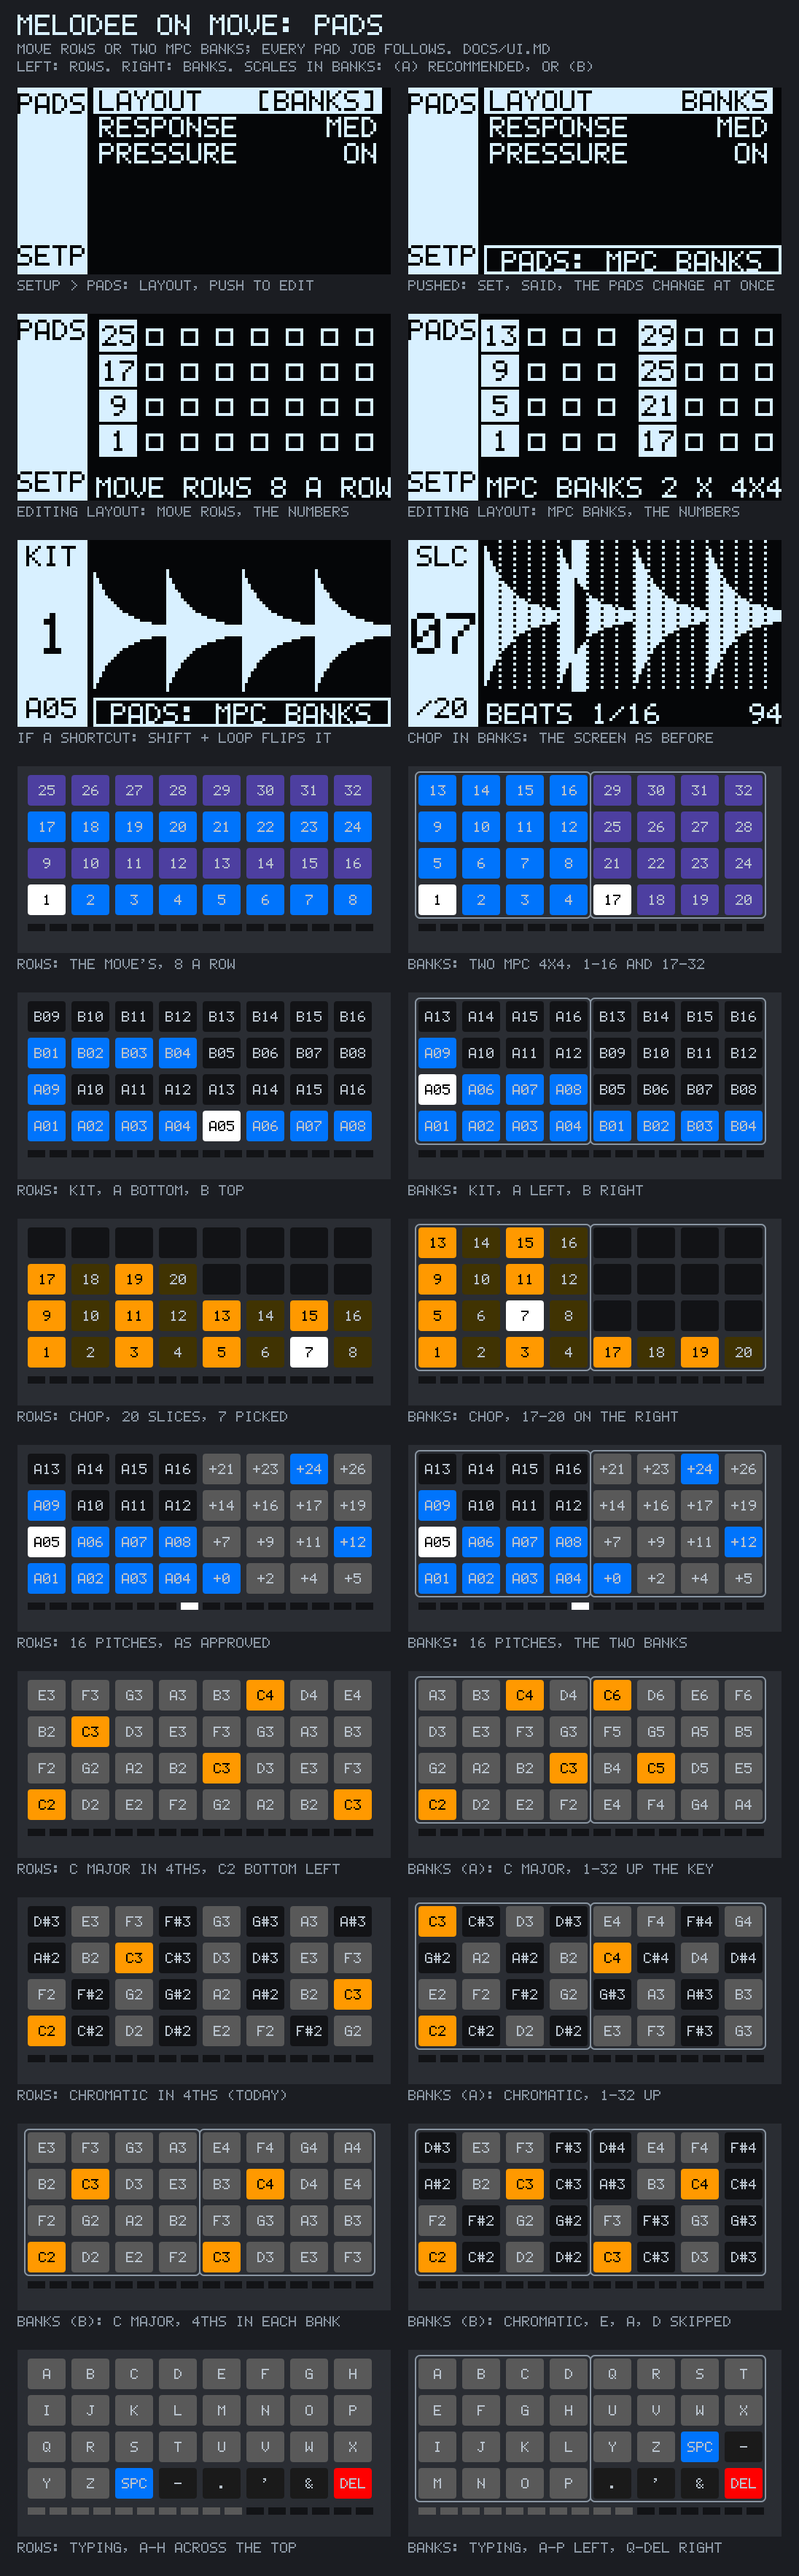
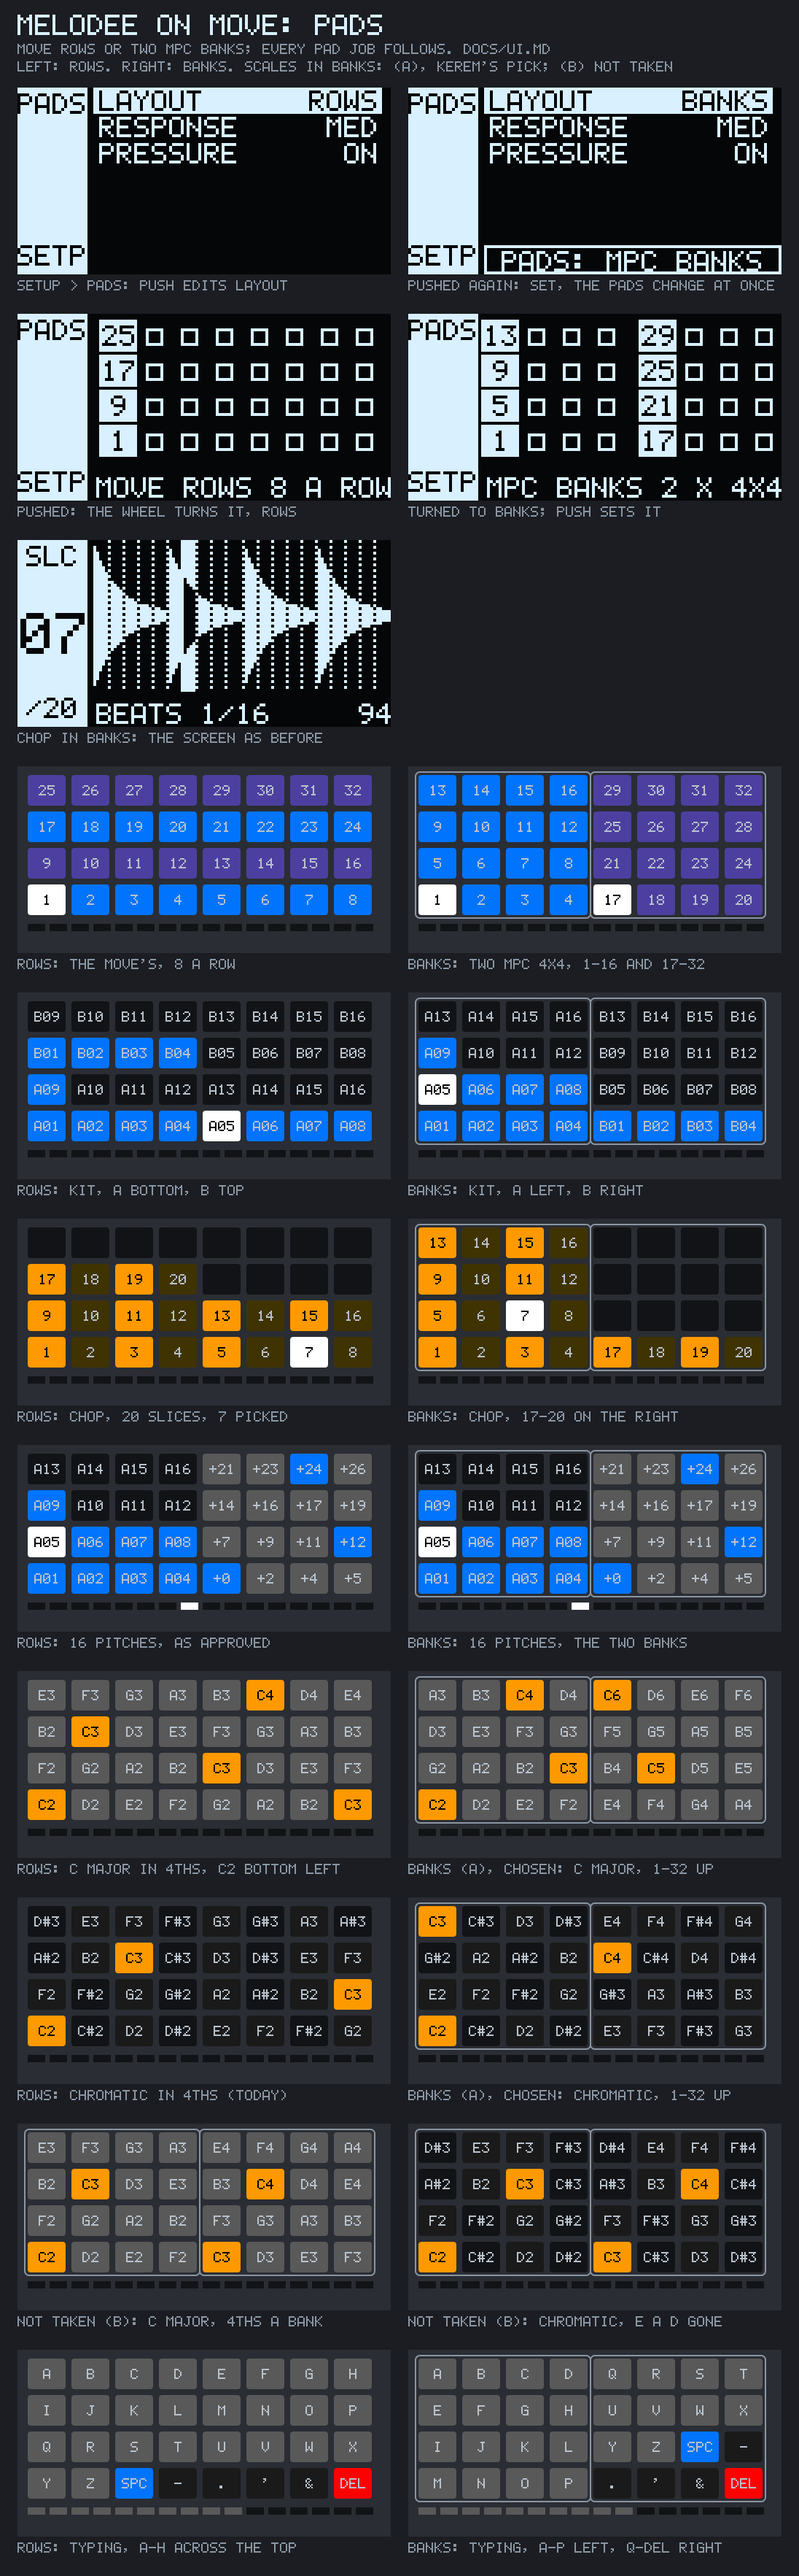
docs(move): the pad layouts and Kerem's decisions

diff --git a/docs/UI.md b/docs/UI.md
@@ -188,7 +188,8 @@ Chop), Kerem decides with that map. `docs/ui/tracks.png` is the sheet
 
 ## Pads
 
-Two layouts for the 32 pads, the user's choice (Kerem, 2026-11-20):
+Two layouts for the 32 pads, the user's choice (Kerem, 2026-11-20; he
+approved `docs/ui/pads.png` and took the decisions below the same day):
 
 - **Rows**, the Move's own: eight a row, the bottom row 1-8, then 9-16
   above it, up to 25-32.
@@ -210,28 +211,44 @@ lit and labelled, Rows on the left and Banks on the right.
 | A kit's 32 pads | bank A the bottom two rows, B the top two | A the left bank, B the right |
 | Chop's slices | 1-8 the bottom row, on up | 1-16 the left bank, 17-32 the right |
 | 16 Pitches (Shift + Step 8) | the left 4x4 one bank of the kit as the MPC lays it, the right 4x4 the pitches (as approved in controls.png) | the same: exactly the two banks |
-| Notes | rows of fourths, C2 bottom left (as today) | to choose: (a) or (b), below |
+| Notes | rows of fourths, C2 bottom left (as before) | 1-32 up the scale, reading (a) below |
 | Typing | the keys in reading order across the eight columns | through the left bank, then the right; Delete bottom right in both |
 
-Notes in Banks, two readings:
+Notes in Banks, two readings were drawn; **Kerem chose (a)**:
 
 - **(a)** the 32 pads run up the scale in pad order, 1-16 the left bank,
   17-32 going on in the right, as the MPC's pads run up a scale: In-Key, a
-  pad the next note of the key (C major: 32 notes, C2 to E6); Chromatic, a
+  pad the next note of the key (C major: 32 notes, C2 to F6); Chromatic, a
   semitone a pad (C2 to G4). Every pad a different note, none skipped.
-- **(b)** rows of fourths inside each 4-wide bank, the right bank an octave
+- (b), not taken: rows of fourths inside each 4-wide bank, the right bank an octave
   above the left: In-Key, up a row three notes of the key; Chromatic, up a
   row a fourth, so four columns skip a note each row (E, A, D), and the two
   banks share notes.
 
-With either, Up and Down move an octave, Shift + Plus and Minus a note of
-the key; the roots light in the track's colour wherever they fall. Chords
-and Prog put a pad's chord on its number, Drums plays 36 + the pad's number
-(as a kit), note repeat repeats the note the pad pressed. Recommended: (a).
+In Banks there are no rows, so Keys & Scale's 4ths or octaves is Rows' only.
+Up and Down move an octave, Shift + Plus and Minus a note of the key; the
+roots light in the track's colour wherever they fall. Chords and Prog put a
+pad's chord on its number, Drums plays 36 + the pad's number (as a kit),
+note repeat repeats the note the pad pressed. `pad_steps()` in
+`pad_layout.h` is the maths: how many steps of the scale a pad lies above
+the bottom-left one, `typing_key()` the keyboard.
 
-The setting: proposed global (Setup > PADS > LAYOUT, kept in
-`Move.settings`), the same for every track; turning it shows the numbering
-on the screen and on the pads, and the pads change at once.
+**The setting** is global: Setup > PADS > LAYOUT (`ROWS` or `BANKS`), kept in
+`Move.settings` (`pads 0` or `pads 1`), the same for every track and
+project, as it is the hands' and not the song's. No shortcut (Kerem): the
+Move has few free keys, and a stray press would move every pad. Push edits
+it: the wheel turns it while the screen shows where each run of pads starts
+and the pads light their numbering (pad 1 white, the banks or rows in two
+colours); push sets it, said on the screen (`PADS: MPC BANKS`), and every
+pad's job and light changes at once; Back leaves it as it was. Setup is
+move-projects' (Shift + Step 2); until it lands, Shift + Step 2 opens
+SETUP > PADS itself (`src/app/screens/setup_pads.cpp`, the row
+`src/app/pad_setting.*`).
+
+| Screen | Rail | Subject | Detail |
+| --- | --- | --- | --- |
+| Setup > PADS | `PADS` / / `SETP` | the list: `LAYOUT  BANKS` | |
+| Editing LAYOUT | `PADS` / / `SETP` | the 32 pads, each run's first number inverted | `MOVE ROWS 8 A ROW`, `MPC BANKS 2 X 4X4` |
 
 ## Screens in code
 
@@ -278,6 +295,8 @@ hold the code to it. In short:
 
 ## Lights
 
+- **Pads, either layout**: each lit where its number lies in the layout
+  chosen ("Pads", above); while LAYOUT is edited, the numbering itself.
 - **Pads**: a kit in its pads' colours, the last hit white; in Chop the
   slices in alternating colours, the selected one white, and in a manual take
   the pad that cuts next blinking red; on a module track every C in the

diff --git a/README.md b/README.md
@@ -37,6 +37,13 @@ Three parts so far:
   volume; Mute mutes the selected track, Mute + a track button that one,
   Shift + Mute + a track button solos it. Editing patterns comes next
   (docs/PARITY.md, sequencer); a project from the MPC plays its patterns.
+- **Pads**, in either of two layouts (Setup > PADS > LAYOUT, Shift + Step
+  2): the Move's rows of eight, 1-8 the bottom row, or two MPC 4x4 banks
+  side by side, 1-16 the left bank from its bottom left and 17-32 the right.
+  Every pad job follows the one chosen: the kit's pads, Chop's slices, the
+  notes (in the banks 1-32 up the semitones, as the MPC's pads run up a
+  scale), the typing keyboard and the lights. The choice is the Move's, kept
+  in `Move.settings` ([docs/UI.md](docs/UI.md), "Pads").
 - **Play** (a kit track): the last pad's sample. Knobs 1-8: tune, level, pan, start, end,
   attack, decay, cutoff (Shift: finer). Touch a knob to see it large.
 - **Load** (the wheel's push on the pad, the Move's Device View): WAV,
@@ -58,7 +65,8 @@ Three parts so far:
   (`/data/UserData/schwung/modules/sound_generators`, or `--modules DIR`).
   The jogwheel walks the Device View (the module, its preset, its effects);
   its push on the module lists them, and a push loads one. Pads are notes
-  in rows of fourths, C2 at the bottom left; Plus and Minus move an octave (a drum module
+  in rows of fourths, C2 at the bottom left (in MPC banks, 1-32 up the
+  semitones from C2); Plus and Minus move an octave (a drum module
   such as 9w9 wants notes from 36: one octave down); pressure is polyphonic
   aftertouch. Knobs 1-8 are the module's page (from its `ui_hierarchy`, or
   its parameters eight at a time), Shift + the jogwheel its pages; the
@@ -97,8 +105,8 @@ Three parts so far:
   (Melodee's PLUG section) holds the module by id, its preset and each
   parameter's value; on the MPC the track stays named and silent, and a
   module that has gone stays named until it is back. What is the Move's and
-  not the project's (the track played last, the metronome) is in
-  `/data/UserData/Melodee/Move.settings`. Each file is written whole or not
+  not the project's (the track played last, the metronome, the pad
+  layout) is in `/data/UserData/Melodee/Move.settings`. Each file is written whole or not
   at all (a temporary file, flushed, renamed). A project saved by the first
   scope (`Move.mldp` with `Move.mldp.chops` and `Move.mldp.synth` beside it)
   is folded into one file on the first start; the old side files stay as
@@ -217,8 +225,8 @@ tuned for the Move's Cortex-A72. Then: the unit tests, the sound self-test,
 the screen previews, runs against the simulated Move (the spike: pad,
 jogwheel to LATENCY, the meter timing clicks through a 300-frame cable,
 Shift + Back; Melodee: load, chop, To Pads, saved and restored; Play, the
-tempo and the metronome; the synth track with the stand-in module, saved
-and restored), and the packages:
+tempo and the metronome; the pad layout set to MPC banks and kept; the
+synth track with the stand-in module, saved and restored), and the packages:
 
 - `dist/melodee-move/`: the binary, the libraries Ableton's firmware lacks,
   a launcher and `run-stock.sh`;
@@ -294,6 +302,12 @@ card. The report stays in `.local/probe/`.
   audio with dither, the screen's pull handshake), the latency meter, and the
   device host against the simulated Move (lights out on channel 1, every
   screen chunk answered, a blank screen on the way out, the pad sounding).
+- The pad layouts (`build/pad-layout-tests`, `build/pads-app-tests`): the
+  map both ways in Rows and Banks, notes for both readings of a scale, the
+  typing keyboard; through the app, a kit's pads, Shift + pad, their lights,
+  Chop's slices and a synth's notes in both layouts, Setup > PADS and
+  `Move.settings`. In the simulated Move, Setup > PADS set to Banks by the
+  Move's own keys, a pad then B01, and the next start still in Banks.
 - `./build.sh`'s simulated run: the meter timed 8 of 8 clicks at exactly 428
   frames (300 of cable plus the block a render waits for the next exchange);
   a pad went from read to rendered in 37 µs; the cycle's own work took 33 µs

diff --git a/docs/MOVE_CONTROLS.md b/docs/MOVE_CONTROLS.md
@@ -77,6 +77,7 @@ after Schwung) differ for some buttons:
 | Kit pads | **32 kit pads** (two banks of 16) as today; **Plus and Minus move 16 pads** through the kit's 8 banks (as Control Live's Drum mode). **Shift + Step 8** turns the right 16 into **16 Pitches** of the last pad (Melodee's 16 Levels, Tune), the left 16 staying the kit; Plus and Minus are then the pitches' octave. |
 | Shift + Steps 4, 12, 13 | No Move job (no icon): **4 the Mixer** (16 tracks, their effects), **12 the Looper**, **13 Song**. |
 | Shift held | **Nothing on the screen**, as on the stock Move: the steps with a Shift job light, Melodee's 4, 12 and 13 too (Kerem dropped the on-screen Shift card from the mockups). |
+| Pads | **Two layouts, the user's choice**: **Rows**, the Move's eight a row (1-8 the bottom row, up to 25-32), or **Banks**, two MPC 4x4 banks side by side (1-16 the left bank from its bottom left, 17-32 the right). Every pad job follows it: kit pads and banks, Chop's slices, 16 Pitches, notes, typing, the lights. Notes in Banks run **up the scale in pad order** (reading (a): 1-16 the left bank, 17-32 on up the right). The setting is **global, in Setup > PADS > LAYOUT**, kept in `Move.settings`; **no shortcut**; typing follows the banks. 16 Pitches is the left 4x4 kit, right 4x4 pitches in both layouts (docs/UI.md, "Pads"; docs/ui/pads.png). |
 | Undo, quit | **Undo held 0.4 s opens the undo list** (as Melodee's Shift + − hold on the MPC). **Shift + Back goes back to Ableton's Move app**, as today, and Setup (Shift + Step 2) lists it too. |
 
 Followed from the rule without a choice: Left and Right become the
@@ -87,6 +88,12 @@ the amount, as the Move's wheel sets the number of slices.
 ## The map
 
 ### Pads
+
+A pad's job comes from its number in the layout chosen in Setup > PADS >
+LAYOUT (Rows or Banks, the decision above; `src/app/pad_layout.h`): "pad
+n", "the right 16" and "slice n" below are in that layout's numbering. The
+bindings table matches pads by where they lie (16 Pitches' right 4x4), the
+screens and the audio thread turn the pad into its number.
 
 | Control | On the Move | In Melodee | Status |
 | --- | --- | --- | --- |
